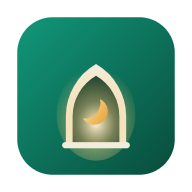
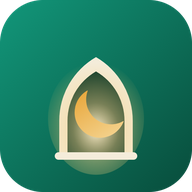
البحثُ يليق بالجوال، وصلاتُها بنصوصها، وشارةُ الحفظ، والشعارُ ملءَ لوحته
أربعةُ أوامر من المالك في جلسةٍ حيّة:

- البحث («لن يستخدم أحدٌ التطبيقَ من الجوال وهو الأهم»): النتائجُ على الجوال
  لوحةٌ بعرض الشاشة مثبتةٌ تحت الرأس لا قائمةً مخنوقةً بعرض الحقل؛ والصفُّ
  سطران — الموضعُ رأسًا صغيرًا بلون التوكيد ثم الآيةُ كاملةَ العرض تلتفّ ولا
  تُبتر. وأُلغي وسما «نص/معنى» الحاشيان. والترتيبُ منطقيّ: الآياتُ أولًا،
  ثم «كلُّ المواضع ←»، ثم الجذرُ، ثم «بالمعنى» — لا يضيع صدرُ القائمة.
  فُحص: «السارق» تتصدرها المائدة ٣٨ بنصّها والكلمةُ مميّزة.
- «صلاتُها» تُعرض كما تُعرض «مثلها» و«شبيهها» (سؤال المالك): صفوفٌ كاملةٌ —
  العلاقةُ والموضعُ والاستماعُ ثم الآيةُ بنصّها العثمانيّ (وترجمتُها عند EN)،
  وستٌّ أولى مع «أظهر البقيّة». كانت رقاعَ إحالاتٍ تُجبر على النقر.
- النجمةُ ملتبسة (المالك): شارةُ الحفظ الشريطية (bookmark ribbon) محلَّها في
  زرّ الشريط وزرّ لوحة الآية، مملوءةً عند الحفظ.
- الشعارُ يملأ لوحتَه: أُزيل هامشُ ٩٪ من icon.svg، ورُسمت كلُّ المقاسات
  بزوايا شفافةٍ خارج الاستدارة (رندرة كروم بخلفية شفافة + PIL)؛ وأيقونتا
  آبل والقناع مربّعتان مصمتتان — iOS يرفض الشفافية ويقصُّ بنفسه.

diff --git a/js/apps/studio/src/components/AyahKnows.tsx b/js/apps/studio/src/components/AyahKnows.tsx
@@ -15,11 +15,13 @@
  */
 import { useEffect, useMemo, useRef, useState } from "react";
 import { Link } from "react-router-dom";
-import { surahNameUI } from "../db";
+import { ayahByLocationMap, surahNameUI } from "../db";
 import { getUILang, num } from "../i18n";
 import { readPathOf } from "../types";
 import { loadFuruq, sides, type Furq } from "../furuq";
 import { EnQuoteLine } from "./EnVerse";
+import AudioButton, { ayahIdOf } from "./AudioButton";
+import type { AyahDoc } from "../types";
 import { allVerseLocs, classOf, loadKulliyat, useKulliyat } from "../kulliyat";
 
 const arName = (loc: string) => `${surahNameUI(Number(loc.split(":")[0]))} ${num(loc.split(":")[1])}`;
@@ -134,18 +136,45 @@ export function TwinPanel({ loc, pairs }: { loc: string; pairs: Furq[] }) {
   );
 }
 
+/** الصلاتُ المفحوصةُ بنصوصها الكاملة — كعرض «مثلها» و«شبيهها» سواءً بسواء
+ *  (أمر المالك 2026-07-29: «لما لا نعرض صلاتها مثلما نعرض مثلها؟») —
+ *  كانت رقاعَ إحالاتٍ تُجبر على النقر، فصارت صفوفًا: العلاقةُ والموضعُ
+ *  والاستماعُ ثم الآيةُ بنصّها (وترجمتُها لغير العربيّ). */
 export function LinksPanel({ loc, links }: { loc: string; links: { loc: string; rel: string }[] }) {
   const ar = getUILang() === "ar";
+  const [texts, setTexts] = useState<Map<string, AyahDoc> | null>(null);
+  const [showAll, setShowAll] = useState(false);
+  useEffect(() => {
+    let live = true;
+    ayahByLocationMap().then((m) => live && setTexts(m));
+    return () => { live = false; };
+  }, []);
+  const shown = showAll ? links : links.slice(0, 6);
   return (
     <div className="ak-panel">
-      <div className="ak-links">
-        {links.slice(0, 10).map((x) => (
-          <Link key={x.loc + x.rel} to={readPathOf(x.loc)} className="chip" title={relLabel(x.rel, ar)}>
-            {relLabel(x.rel, ar)} · {arName(x.loc)}
-          </Link>
-        ))}
-        {links.length > 10 && <span className="chip">+{num(links.length - 10)}</span>}
-      </div>
+      {shown.map((x) => {
+        const d = texts?.get(x.loc);
+        return (
+          <div key={x.loc + x.rel} className="ak-link-row">
+            <div className="ak-link-h">
+              <span className="chip gold" title={ar ? "علاقةٌ فحصها قارئٌ مستقلٌّ بمقطعَي سياقها" : "examined by an independent reader in context"}>{relLabel(x.rel, ar)}</span>
+              <Link to={readPathOf(x.loc)} className="chip link">{arName(x.loc)}</Link>
+              {d && <AudioButton ayahId={ayahIdOf(d)} preview />}
+            </div>
+            {d && (
+              <Link to={readPathOf(x.loc)} className="quran ak-link-text" dir="rtl">
+                {d.textUthmani ?? d.textClean}
+              </Link>
+            )}
+            {d && <EnQuoteLine doc={d} />}
+          </div>
+        );
+      })}
+      {links.length > 6 && !showAll && (
+        <button className="chip ak-showall" onClick={() => setShowAll(true)}>
+          {ar ? `أظهر بقيّةَ الصلات (${num(links.length - 6)})` : `show all links (+${links.length - 6})`}
+        </button>
+      )}
       <div className="ak-more">
         <span className="muted ak-note">{ar ? "كلُّ صلةٍ فحصها قارئٌ مستقلٌّ بمقطعَي سياقها · " : "every link was examined by an independent reader in its context · "}</span>
         <Link to={`/aya/${loc.split(":")[0]}/${loc.split(":")[1]}`} className="chip link">{ar ? "بطاقةُ الآية ←" : "Verse card ←"}</Link>

diff --git a/js/apps/studio/src/theme.css b/js/apps/studio/src/theme.css
@@ -297,16 +297,31 @@ mark.hl { background: var(--gold-soft); color: inherit; border-radius: 3px; padd
   background: var(--panel); border: 1px solid var(--line); border-radius: 12px;
   box-shadow: 0 10px 34px rgb(0 0 0 / 0.16); overflow: hidden auto; max-height: 60vh;
 }
+/* الجوال: عرضُ الشاشة كاملًا تحت الصفّ اللاصق — لا قائمةً مخنوقةً بعرض الحقل
+   (رصد المالك على جهازٍ حقيقيّ 2026-07-29: «الناس سوف تعاني من البحث») */
+@media (max-width: 900px) {
+  .inline-omni-results {
+    position: fixed; inset-inline: 6px; top: calc(118px + env(safe-area-inset-top));
+    max-height: calc(100dvh - 118px - 46vh); min-height: 180px; z-index: 60;
+  }
+}
 .inline-omni-row {
-  display: flex; align-items: center; gap: 10px; padding: 10px 12px; cursor: pointer;
-  border-bottom: 1px solid var(--line);
+  display: flex; flex-direction: column; gap: 2px; padding: 9px 14px; cursor: pointer;
+  border-bottom: 1px solid color-mix(in srgb, var(--line) 55%, transparent);
 }
 .inline-omni-row:last-child { border-bottom: none; }
-.inline-omni-row.active { background: var(--accent-soft); }
-.inline-omni-kind { font-size: 10.5px; min-width: 52px; justify-content: center; flex: none; }
-.inline-omni-label { flex: 1; min-width: 0; font-size: 15px; line-height: 1.6; overflow: hidden; text-overflow: ellipsis; white-space: nowrap; }
-.inline-omni-label.quran { font-size: 17px; }
-.inline-omni-sub { flex: none; font-size: 12px; }
+.inline-omni-row.active, .inline-omni-row:hover { background: var(--accent-soft); }
+/* الموضعُ رأسًا صغيرًا بلون التوكيد — بلا وسوم */
+.inline-omni-sub { font-size: 11.5px; color: var(--accent); font-weight: 700; }
+/* الآيةُ سطرٌ كاملُ العرض يلتفّ حتى سطرين — لا بتر */
+.inline-omni-label {
+  font-size: 14.5px; line-height: 1.7; color: var(--ink); overflow: hidden;
+  display: -webkit-box; -webkit-line-clamp: 2; -webkit-box-orient: vertical;
+}
+.inline-omni-label.quran { font-size: 17.5px; line-height: 1.95; }
+/* صفّا «كلُّ المواضع» و«بالمعنى» — نداءٌ مميّزٌ هادئ */
+.inline-omni-cta { color: var(--accent); font-weight: 600; font-size: 13.5px; }
+.inline-omni-label.quran.inline-omni-cta { font-size: 15px; font-family: var(--font-ui); }
 
 .inline-omni .page-search input { padding-block: 8px; }
 
@@ -2597,3 +2612,14 @@ table.data tr:hover td { background: var(--panel-2); }
 }
 .wbw-play:hover { background: var(--accent); color: #fff; }
 .wbw-play-ar { border: 1px solid var(--accent); color: var(--accent); cursor: pointer; margin-bottom: 10px; background: var(--panel); }
+
+/* صلاتُها بنصوصها — صفٌّ كصفوف «مثلها»: علاقةٌ وموضعٌ ثم الآيةُ كاملة */
+.ak-link-row { display: flex; flex-direction: column; gap: 4px; padding: 8px 0; border-bottom: 1px dashed var(--line); }
+.ak-link-row:last-of-type { border-bottom: none; }
+.ak-link-h { display: flex; align-items: center; gap: 6px; flex-wrap: wrap; }
+.ak-link-text {
+  font-size: calc(18px * var(--quran-scale, 1)); line-height: 2; color: var(--ink);
+  text-decoration: none; cursor: pointer;
+}
+.ak-link-text:hover { color: var(--accent); }
+.ak-showall { cursor: pointer; align-self: center; margin-top: 4px; }

diff --git a/js/apps/studio/src/omni.ts b/js/apps/studio/src/omni.ts
@@ -132,7 +132,9 @@ export async function resolveOmni(raw0: string, surahIndex: SurahIndexEntry[]): 
     }
   }
 
-  // Arabic token → root (resolve the typed WORD to its root first)
+  // Arabic token → root — تُجمع جانبًا وتُلحق آخرَ القائمة (الترتيبُ المنطقيّ
+  // بأمر المالك 2026-07-29: الآياتُ أولًا، ثم كلُّ المواضع، ثم الجذرُ، ثم المعنى)
+  const rootItems: OmniItem[] = [];
   if (/^[ء-ي]{2,}$/.test(raw)) {
     const seenRoots = new Set<string>();
     try {
@@ -141,7 +143,7 @@ export async function resolveOmni(raw0: string, surahIndex: SurahIndexEntry[]): 
         const rd = await getRoot(resolved).catch(() => null);
         if (rd) {
           seenRoots.add(resolved);
-          out.push({
+          rootItems.push({
             key: `rr${resolved}`,
             kind: "root",
             label: resolved,
@@ -157,7 +159,7 @@ export async function resolveOmni(raw0: string, surahIndex: SurahIndexEntry[]): 
       const roots = await searchRoots(raw, 3);
       for (const r of roots) {
         if (seenRoots.has(r.root)) continue;
-        out.push({
+        rootItems.push({
           key: `r${r.root}`,
           kind: "root",
           label: r.root,
@@ -178,14 +180,6 @@ export async function resolveOmni(raw0: string, surahIndex: SurahIndexEntry[]): 
       const { hits: open, total } = await quickSearch(raw, 3);
       // العددُ الكلّي أوّلَ النتائج لا قبل آخرها — فيعرف الباحثُ سعةَ ما وجد
       // قبل أن يقرأ العيّنة (قرار المالك 2026-07-21).
-      if (total > 0)
-        out.unshift({
-          key: "all-text",
-          kind: "text",
-          label: `«${raw}» — ${num(total)}${total >= 400 ? "+" : ""}`,
-          sub: "بالنصّ · كلُّ المواضع",
-          to: `/search?m=text&q=${encodeURIComponent(raw)}`,
-        });
       for (const h of open)
         out.push({
           key: `t${h.ayah.location}`,
@@ -197,11 +191,21 @@ export async function resolveOmni(raw0: string, surahIndex: SurahIndexEntry[]): 
           sub: `${surahNameAr(h.ayah.surahNo)} ${num(h.ayah.ayahNo)}${h.how === "جذر" ? ` · ${t("omni.viaRoot") || "من الجذر"} ${h.root}` : ""}`,
           to: readPathOf(h.ayah.location),
         });
-
+      // «كلُّ المواضع» بعد العيّنة — امتدادٌ طبيعيّ لها لا متصدّرٌ يضيّع السطر الأول
+      if (total > 0)
+        out.push({
+          key: "all-text",
+          kind: "text",
+          label: `كلُّ المواضع «${raw}» — ${num(total)}${total >= 400 ? "+" : ""} ←`,
+          to: `/search?m=text&q=${encodeURIComponent(raw)}`,
+        });
     } catch {
       /* fts syntax errors are fine here */
     }
   }
+
+  // الجذرُ بعد الآيات وكلِّ المواضع، وقبل المعنى
+  out.push(...rootItems);
 
   // meaning search, always last
   out.push({

diff --git a/js/apps/studio/src/components/InlineOmni.tsx b/js/apps/studio/src/components/InlineOmni.tsx
@@ -97,17 +97,23 @@ export default function InlineOmni({
               onMouseEnter={() => setActive(i)}
               className={`inline-omni-row${i === active ? " active" : ""}`}
             >
-              <span className="chip inline-omni-kind">{t(`omni.${item.kind}`)}</span>
-              <span
-                className={item.kind === "text" || item.kind === "root" ? "quran inline-omni-label" : "inline-omni-label"}
+              {/* لا وسومَ («نص/معنى» حشوٌ — رصد المالك): الموضعُ وحدَه رأسًا
+                  صغيرًا، والآيةُ تحته كاملةَ العرض تلتفّ ولا تُبتر */}
+              {item.sub && <div className="inline-omni-sub">{item.sub}</div>}
+              <div
+                className={
+                  (item.kind === "text" || item.kind === "root" ? "quran " : "") +
+                  "inline-omni-label" +
+                  (item.key === "all-text" || item.kind === "meaning" ? " inline-omni-cta" : "")
+                }
+                dir={item.kind === "text" || item.kind === "root" ? "rtl" : undefined}
               >
                 {item.segs
                   ? item.segs.map((g, gi) => (
                       <span key={gi} className={g.hit ? "omni-hit" : undefined}>{g.text}{" "}</span>
                     ))
                   : item.label}
-              </span>
-              {item.sub && <span className="muted inline-omni-sub">{item.sub}</span>}
+              </div>
             </div>
           ))}
         </div>

diff --git a/js/apps/studio/src/components/BookmarksPanel.tsx b/js/apps/studio/src/components/BookmarksPanel.tsx
@@ -33,14 +33,14 @@ export default function BookmarksPanel() {
   return (
     <div className="set-wrap" ref={ref}>
       <button onClick={() => setOpen(!open)} title={ar ? "العلامات المرجعية" : "Bookmarks"} aria-label="bookmarks">
-        ★{marks.length > 0 && <sup style={{ fontSize: 9 }}> {num(marks.length)}</sup>}
+        <svg viewBox="0 0 24 24" width="15" height="15" aria-hidden fill="none" stroke="currentColor" strokeWidth="2" strokeLinejoin="round"><path d="M6 3.5h12v17l-6-4.4-6 4.4z" /></svg>{marks.length > 0 && <sup style={{ fontSize: 9 }}> {num(marks.length)}</sup>}
       </button>
       {open && (
         <div className="set-panel card">
           <div className="set-head">{ar ? "العلامات المرجعية" : "Bookmarks"}</div>
           {marks.length === 0 ? (
             <div className="muted" style={{ padding: "6px 0" }}>
-              {ar ? "اضغط ☆ بجانب أي آية لحفظها هنا" : "tap ☆ on any ayah to save it here"}
+              {ar ? "علِّم آيةً ثم اضغط شارةَ الحفظ في لوحتها لتُحفظ هنا" : "mark a verse, then tap the bookmark ribbon in its panel"}
             </div>
           ) : (
             <div className="bm-list">

diff --git a/js/apps/studio/src/components/AyahPanel.tsx b/js/apps/studio/src/components/AyahPanel.tsx
@@ -118,7 +118,9 @@ export default function AyahPanel({
             </svg>
           )}
         </button>
-        <button className={`ap-ic${bookmarked ? " on" : ""}`} onClick={() => toggleBookmark(loc)} title={ar ? "علامة مرجعية" : "bookmark"}>{bookmarked ? "★" : "☆"}</button>
+        <button className={`ap-ic${bookmarked ? " on" : ""}`} onClick={() => toggleBookmark(loc)} title={ar ? "علامة مرجعية — تُحفظ في قائمة العلامات أعلى الصفحة" : "bookmark — saved to the list in the header"}>
+          {bookmarked ? <svg viewBox="0 0 24 24" width="15" height="15" aria-hidden fill="currentColor" stroke="currentColor" strokeWidth="2" strokeLinejoin="round"><path d="M6 3.5h12v17l-6-4.4-6 4.4z" /></svg> : <svg viewBox="0 0 24 24" width="15" height="15" aria-hidden fill="none" stroke="currentColor" strokeWidth="2" strokeLinejoin="round"><path d="M6 3.5h12v17l-6-4.4-6 4.4z" /></svg>}
+        </button>
         <button className="ap-ic" onClick={onClose} title={ar ? "إزالة التعليم" : "clear"}>✕</button>
       </div>
 
